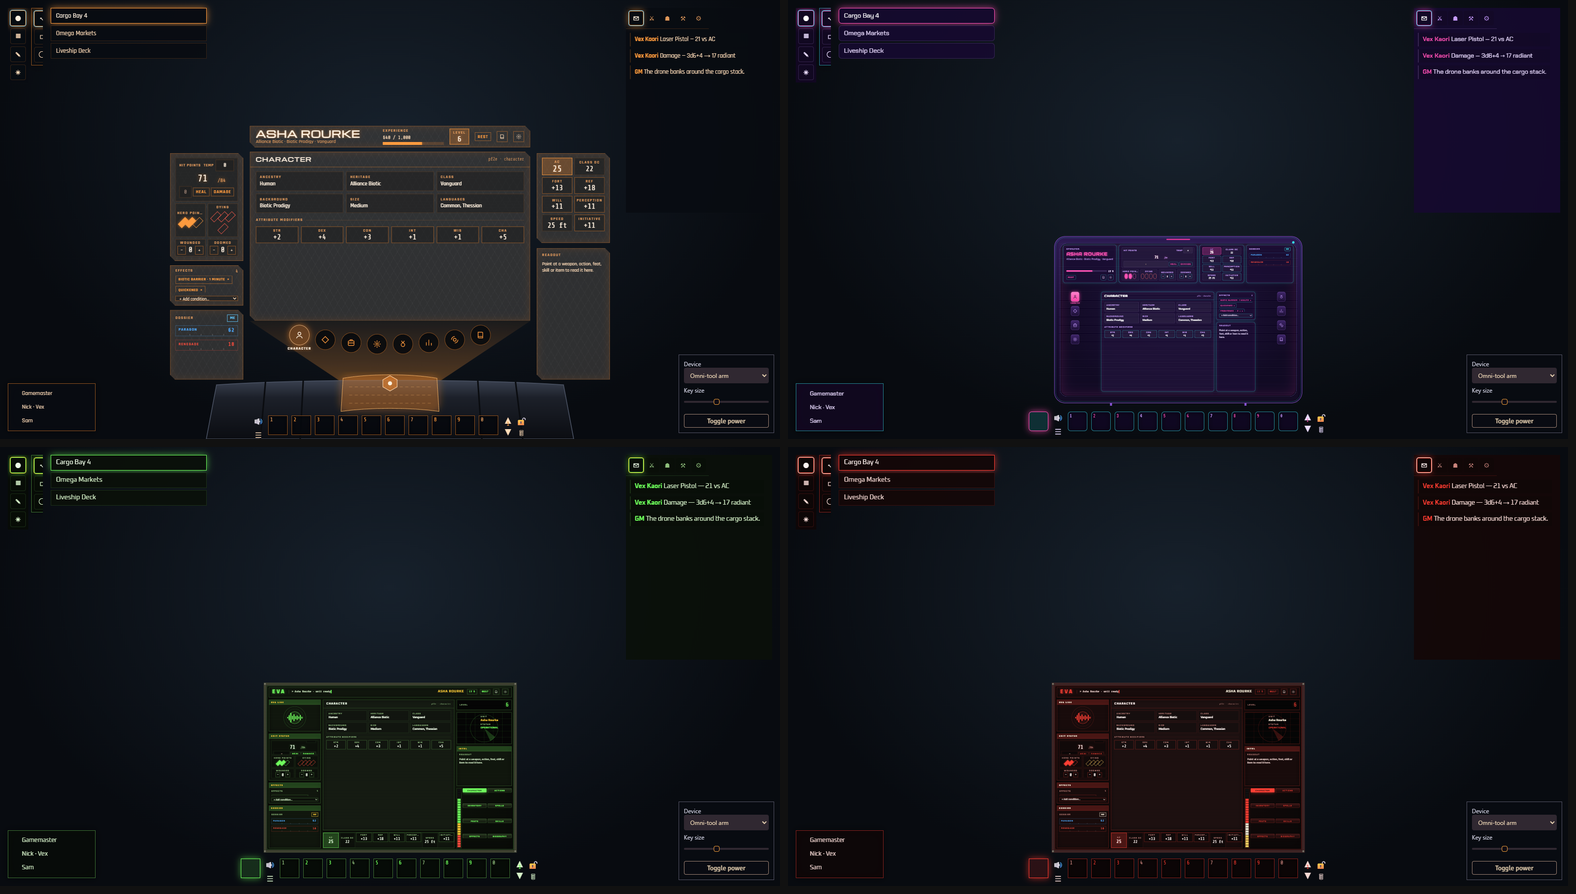
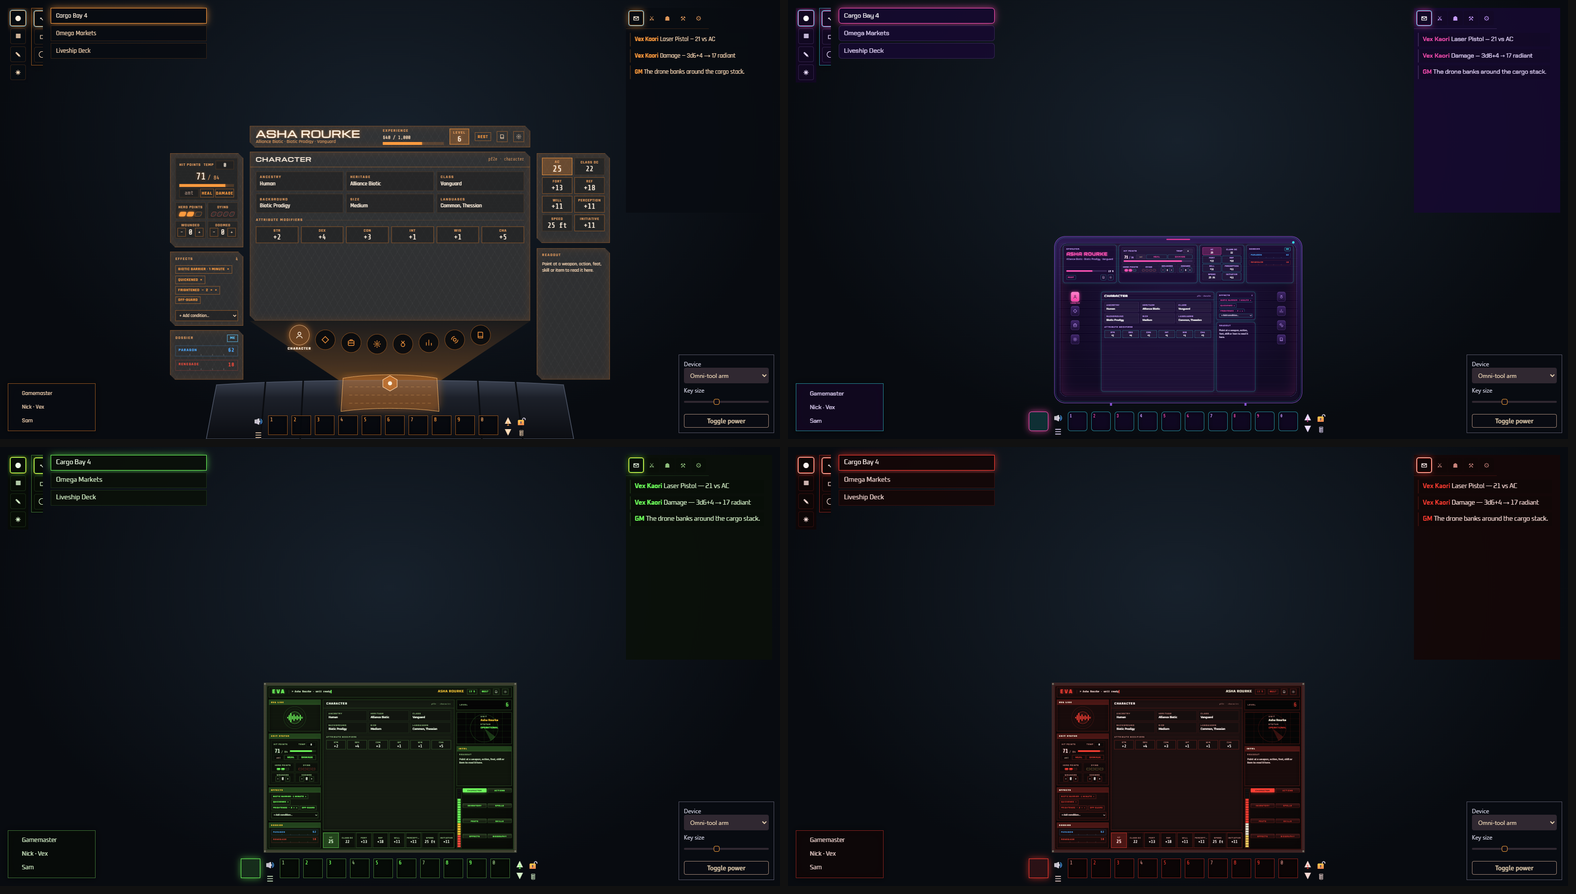
Hero points, dying and death saves as tracks, and Effects gets the dossier's spare room

diff --git a/styles/projection.css b/styles/projection.css
@@ -54,24 +54,48 @@
 #sfh-projection .barx{height:8px;background:var(--line2);border-radius:calc(var(--r)*.3);overflow:hidden}
 #sfh-projection .barx>i{display:block;height:100%;background:var(--hot);box-shadow:0 0 10px var(--glow)}
 #sfh-projection .barx.a>i{background:var(--acc);box-shadow:0 0 10px var(--acc)}
-#sfh-projection .cells{--cw:86px;min-height:0;display:grid;grid-template-columns:repeat(auto-fill,minmax(var(--cw),1fr));gap:6px}
+#sfh-projection .cells{--cw:86px;min-height:0;display:grid;grid-template-columns:repeat(auto-fill,minmax(var(--cw),1fr));grid-auto-rows:minmax(min-content,auto);gap:6px}
 #sfh-projection .sfh-stage[data-device="omni"] .cells{--cw:74px}
-#sfh-projection .sfh-stage[data-device="wrist"] .cell{min-height:40px}
+#sfh-projection .sfh-stage[data-device="wrist"] .cells{gap:4px}
+#sfh-projection .sfh-stage[data-device="wrist"] .cell{min-height:38px}
 #sfh-projection .sfh-stage[data-device="wrist"] .cell .v{font-size:17px}
 #sfh-projection .big{white-space:nowrap}
 #sfh-projection .cell{display:flex;flex-direction:column;align-items:center;justify-content:center;gap:2px;min-height:46px;padding:4px;border:1px solid var(--line2);background:var(--pnl2);border-radius:calc(var(--r)*.6);font:inherit;color:inherit}
-#sfh-projection button.cell{cursor:pointer;border-color:var(--line)}
+/* Foundry gives every button a fixed height; a cell is as tall as its row */
+#sfh-projection button.cell{cursor:pointer;border-color:var(--line);height:auto}
 #sfh-projection button.cell:hover{background:var(--hover)}
 #sfh-projection .cell{overflow:hidden}
-#sfh-projection .cell .lbl{max-width:100%;overflow:hidden;text-overflow:ellipsis;white-space:nowrap;text-align:center;line-height:1.1}
+#sfh-projection .cell .lbl{max-width:100%;overflow:hidden;text-overflow:ellipsis;white-space:nowrap;text-align:center;line-height:1.1;letter-spacing:.08em}
 #sfh-projection .cell .v{font-family:var(--mono);font-size:20px;color:var(--bright);line-height:1;max-width:100%;overflow:hidden;text-overflow:ellipsis;white-space:nowrap}
 #sfh-projection .cell.wide{grid-column:1/-1}
-#sfh-projection .pips{display:flex;flex-wrap:wrap;justify-content:center;gap:5px;max-width:100%}
-#sfh-projection .pip{width:15px;height:15px;border:1px solid var(--hot);background:transparent;cursor:pointer;padding:0;transform:rotate(45deg);border-radius:calc(var(--r)*.2)}
+#sfh-projection .pips{display:flex;flex-wrap:wrap;justify-content:center;gap:9px;max-width:100%;padding:3px}
+#sfh-projection .sfh-stage[data-device="wrist"] .pips{gap:5px}
+#sfh-projection .pip{flex:none;width:15px;height:15px;min-height:0;border:1px solid var(--hot);background:transparent;cursor:pointer;padding:0;transform:rotate(45deg);border-radius:calc(var(--r)*.2)}
 #sfh-projection .pip.on{background:var(--hot);box-shadow:0 0 8px var(--glow)}
 #sfh-projection .pip.bad{border-color:var(--bad)}
 #sfh-projection .pip.bad.on{background:var(--bad);box-shadow:0 0 8px var(--bad)}
 #sfh-projection .sfh-stage[data-device="wrist"] .pip, #sfh-projection .sfh-stage[data-device="wrist"] .dot{transform:none;border-radius:50%;width:17px;height:17px}
+/* segmented tracks — hero points, dying: one segment per point, slanted on the omni-tool, pills on the wrist, blocks on the EVA */
+#sfh-projection .trk{gap:6px}
+#sfh-projection .segs{display:flex;justify-content:center;gap:4px;width:100%;padding:0 5px;box-sizing:border-box}
+#sfh-projection .seg{flex:0 1 18px;min-width:8px;height:13px;min-height:0;padding:0;border:1px solid var(--line);background:rgba(255,255,255,.04);cursor:pointer;transform:skewX(-20deg)}
+#sfh-projection .seg:hover{background:var(--hover);border-color:var(--hot)}
+#sfh-projection .seg.on{background:var(--hot);border-color:var(--hot);box-shadow:0 0 8px var(--glow)}
+#sfh-projection .seg.bad{border-color:color-mix(in srgb,var(--bad) 55%,transparent)}
+#sfh-projection .seg.bad:hover{background:color-mix(in srgb,var(--bad) 18%,transparent)}
+#sfh-projection .seg.bad.on{background:var(--bad);border-color:var(--bad);box-shadow:0 0 8px var(--bad)}
+#sfh-projection .seg.lock{cursor:default;border-style:dashed;border-color:color-mix(in srgb,var(--bad) 50%,transparent);background:repeating-linear-gradient(90deg,color-mix(in srgb,var(--bad) 35%,transparent) 0 2px,transparent 2px 5px)}
+#sfh-projection .segsep{flex:none;width:1px;align-self:stretch;margin:0 3px;background:var(--line)}
+#sfh-projection .sfh-stage[data-device="wrist"] .seg{transform:none;border-radius:7px}
+#sfh-projection .sfh-stage[data-device="gdi"] .seg, #sfh-projection .sfh-stage[data-device="nod"] .seg{transform:none;height:11px;box-shadow:inset 0 0 0 1px #000}
+#sfh-projection .trk.alert{border-color:var(--bad);animation:sfh-alert 1.6s ease-in-out infinite}
+#sfh-projection .trk.alert .lbl{color:var(--bad)}
+@keyframes sfh-alert {50%{box-shadow:inset 0 0 16px color-mix(in srgb,var(--bad) 45%,transparent)}}
+@media (prefers-reduced-motion:reduce){
+#sfh-projection .trk.alert{animation:sfh-none;box-shadow:inset 0 0 12px color-mix(in srgb,var(--bad) 35%,transparent)}
+}
+#sfh-projection .cell .v.warn{color:var(--hot);text-shadow:0 0 8px var(--glow)}
+#sfh-projection .cell .v.bad{color:var(--bad);text-shadow:0 0 8px var(--bad)}
 /* ---------- projection ---------- */
 #sfh-projection .proj{padding:0}
 #sfh-projection .proj-h{display:flex;align-items:center;gap:6px;min-height:42px;padding:0 16px;border-bottom:1px solid var(--line);flex-wrap:wrap}
@@ -104,10 +128,21 @@
 #sfh-projection .sfh-in:focus{outline:1px solid var(--hot);border-color:var(--hot);background:rgba(0,0,0,.55)}
 #sfh-projection .sfh-in::-webkit-outer-spin-button, #sfh-projection .sfh-in::-webkit-inner-spin-button{-webkit-appearance:none;margin:0}
 #sfh-projection .sfh-in[type=number]{-moz-appearance:textfield}
-#sfh-projection .sfh-in-hp{width:3.2em;font-size:26px;line-height:1;padding:0 2px;background:transparent;border-color:transparent;color:var(--bright);text-shadow:0 0 10px var(--glow)}
+#sfh-projection .sfh-in-hp{width:3.2em;height:auto;min-height:0;font-size:26px;line-height:1;padding:0 2px;text-align:right;background:transparent;border-color:transparent;color:var(--bright);text-shadow:0 0 10px var(--glow)}
 #sfh-projection .sfh-in-hp:hover{border-color:var(--line2)}
 #sfh-projection .sfh-temp{display:flex;align-items:center;gap:5px;flex:none}
+#sfh-projection .sfh-hp{align-items:stretch;gap:5px;padding:7px 10px}
 #sfh-projection .sfh-hp .lbl{overflow:visible;text-overflow:clip;letter-spacing:.1em}
+#sfh-projection .sfh-hp .sfh-in:not(.sfh-in-hp){height:24px;min-height:0}
+#sfh-projection .sfh-hp .hp-a .b{height:24px;min-height:24px}
+#sfh-projection .sfh-hp .hp-b{align-self:center;width:100%}
+/* where the panel is wide or short, the number shares its row: with the buttons on the wrist, with the bar on the EVA */
+#sfh-projection .sfh-stage[data-device="wrist"] .sfh-hp{display:grid;grid-template-columns:auto 1fr;grid-template-areas:"h h" "v a" "b b";column-gap:14px}
+#sfh-projection .sfh-stage[data-device="gdi"] .sfh-hp, #sfh-projection .sfh-stage[data-device="nod"] .sfh-hp{display:grid;grid-template-columns:auto 1fr;grid-template-areas:"h h" "v b" "a a";column-gap:12px}
+#sfh-projection .sfh-hp .hp-h{grid-area:h}
+#sfh-projection .sfh-hp .hp-v{grid-area:v}
+#sfh-projection .sfh-hp .hp-b{grid-area:b}
+#sfh-projection .sfh-hp .hp-a{grid-area:a}
 #sfh-projection .sfh-temp .sfh-in{width:3.4em}
 #sfh-projection .sfh-menu{position:absolute;left:8px;right:8px;top:8px;z-index:12;display:flex;flex-direction:column;gap:6px;padding:10px;background:linear-gradient(var(--pnl),var(--pnl)),#0a0b0e;border:1px solid var(--hot);border-radius:calc(var(--r)*.6);box-shadow:0 0 22px var(--glow)}
 #sfh-projection .sfh-menu label{display:flex;align-items:center;justify-content:space-between;gap:8px;font-size:12px;color:var(--dim)}
@@ -159,6 +194,8 @@ body[data-sfh-grid="panels"] #sfh-projection .sfh-stage[data-device="omni"] :is(
 #sfh-projection .sfh-stage[data-device="wrist"] .tile{border-radius:12px}
 #sfh-projection .cap{display:flex;align-items:center;min-height:24px;padding:0 10px;background:var(--hotbg);border-bottom:1px solid var(--line);font-size:11px;font-weight:800;letter-spacing:.2em;text-transform:uppercase;color:var(--acc);flex:none}
 #sfh-projection .sfh-stage[data-device="gdi"] .slot.pnl, #sfh-projection .sfh-stage[data-device="nod"] .slot.pnl{padding-top:0}
+/* the EVA captions its bays, so a panel's own heading inside one would say it twice */
+#sfh-projection .sfh-stage[data-device="gdi"] .slot-in>.hd, #sfh-projection .sfh-stage[data-device="nod"] .slot-in>.hd{display:none}
 /* ---------- toasts & dialog ---------- */
 #sfh-projection #sfh-toasts{position:absolute;display:flex;flex-direction:column;gap:8px;pointer-events:none;z-index:30;width:250px}
 #sfh-projection .toast{pointer-events:auto;box-sizing:border-box;padding:10px 12px;background:var(--pnl);border:1px solid var(--hot);box-shadow:0 0 20px var(--glow);clip-path:var(--clip);border-radius:var(--r);font-family:var(--font);color:var(--text);animation:sfh-tin .25s ease-out}

diff --git a/design/1-head.html b/design/1-head.html
@@ -59,21 +59,42 @@ body{font-family:'IBM Plex Sans',system-ui,sans-serif;padding-inline:16px;paddin
 .barx{height:8px;background:var(--line2);border-radius:calc(var(--r)*.3);overflow:hidden}
 .barx>i{display:block;height:100%;background:var(--hot);box-shadow:0 0 10px var(--glow)}
 .barx.a>i{background:var(--acc);box-shadow:0 0 10px var(--acc)}
-.cells{--cw:86px;min-height:0;display:grid;grid-template-columns:repeat(auto-fill,minmax(var(--cw),1fr));gap:6px}
+.cells{--cw:86px;min-height:0;display:grid;grid-template-columns:repeat(auto-fill,minmax(var(--cw),1fr));grid-auto-rows:minmax(min-content,auto);gap:6px}
 .t-omni .cells{--cw:74px}
-.t-wrist .cell{min-height:40px}.t-wrist .cell .v{font-size:17px}
+.t-wrist .cells{gap:4px}.t-wrist .cell{min-height:38px}.t-wrist .cell .v{font-size:17px}
 .big{white-space:nowrap}
 .cell{display:flex;flex-direction:column;align-items:center;justify-content:center;gap:2px;min-height:46px;padding:4px;border:1px solid var(--line2);background:var(--pnl2);border-radius:calc(var(--r)*.6);font:inherit;color:inherit}
-button.cell{cursor:pointer;border-color:var(--line)}button.cell:hover{background:var(--hover)}
+/* Foundry gives every button a fixed height; a cell is as tall as its row */
+button.cell{cursor:pointer;border-color:var(--line);height:auto}button.cell:hover{background:var(--hover)}
 .cell{overflow:hidden}
-.cell .lbl{max-width:100%;overflow:hidden;text-overflow:ellipsis;white-space:nowrap;text-align:center;line-height:1.1}
+.cell .lbl{max-width:100%;overflow:hidden;text-overflow:ellipsis;white-space:nowrap;text-align:center;line-height:1.1;letter-spacing:.08em}
 .cell .v{font-family:var(--mono);font-size:20px;color:var(--bright);line-height:1;max-width:100%;overflow:hidden;text-overflow:ellipsis;white-space:nowrap}
 .cell.wide{grid-column:1/-1}
-.pips{display:flex;flex-wrap:wrap;justify-content:center;gap:5px;max-width:100%}
-.pip{width:15px;height:15px;border:1px solid var(--hot);background:transparent;cursor:pointer;padding:0;transform:rotate(45deg);border-radius:calc(var(--r)*.2)}
+.pips{display:flex;flex-wrap:wrap;justify-content:center;gap:9px;max-width:100%;padding:3px}
+.t-wrist .pips{gap:5px}
+.pip{flex:none;width:15px;height:15px;min-height:0;border:1px solid var(--hot);background:transparent;cursor:pointer;padding:0;transform:rotate(45deg);border-radius:calc(var(--r)*.2)}
 .pip.on{background:var(--hot);box-shadow:0 0 8px var(--glow)}
 .pip.bad{border-color:var(--bad)}.pip.bad.on{background:var(--bad);box-shadow:0 0 8px var(--bad)}
 .t-wrist .pip,.t-wrist .dot{transform:none;border-radius:50%;width:17px;height:17px}
+/* segmented tracks — hero points, dying: one segment per point, slanted on the omni-tool, pills on the wrist, blocks on the EVA */
+.trk{gap:6px}
+.segs{display:flex;justify-content:center;gap:4px;width:100%;padding:0 5px;box-sizing:border-box}
+.seg{flex:0 1 18px;min-width:8px;height:13px;min-height:0;padding:0;border:1px solid var(--line);background:rgba(255,255,255,.04);cursor:pointer;transform:skewX(-20deg)}
+.seg:hover{background:var(--hover);border-color:var(--hot)}
+.seg.on{background:var(--hot);border-color:var(--hot);box-shadow:0 0 8px var(--glow)}
+.seg.bad{border-color:color-mix(in srgb,var(--bad) 55%,transparent)}
+.seg.bad:hover{background:color-mix(in srgb,var(--bad) 18%,transparent)}
+.seg.bad.on{background:var(--bad);border-color:var(--bad);box-shadow:0 0 8px var(--bad)}
+.seg.lock{cursor:default;border-style:dashed;border-color:color-mix(in srgb,var(--bad) 50%,transparent);background:repeating-linear-gradient(90deg,color-mix(in srgb,var(--bad) 35%,transparent) 0 2px,transparent 2px 5px)}
+.segsep{flex:none;width:1px;align-self:stretch;margin:0 3px;background:var(--line)}
+.t-wrist .seg{transform:none;border-radius:7px}
+.t-gdi .seg,.t-nod .seg{transform:none;height:11px;box-shadow:inset 0 0 0 1px #000}
+.trk.alert{border-color:var(--bad);animation:alert 1.6s ease-in-out infinite}
+.trk.alert .lbl{color:var(--bad)}
+@keyframes alert{50%{box-shadow:inset 0 0 16px color-mix(in srgb,var(--bad) 45%,transparent)}}
+@media (prefers-reduced-motion:reduce){.trk.alert{animation:none;box-shadow:inset 0 0 12px color-mix(in srgb,var(--bad) 35%,transparent)}}
+.cell .v.warn{color:var(--hot);text-shadow:0 0 8px var(--glow)}
+.cell .v.bad{color:var(--bad);text-shadow:0 0 8px var(--bad)}
 
 /* ---------- projection ---------- */
 .proj{padding:0}
@@ -107,10 +128,18 @@ button.cell{cursor:pointer;border-color:var(--line)}button.cell:hover{background
 .sfh-in:focus{outline:1px solid var(--hot);border-color:var(--hot);background:rgba(0,0,0,.55)}
 .sfh-in::-webkit-outer-spin-button,.sfh-in::-webkit-inner-spin-button{-webkit-appearance:none;margin:0}
 .sfh-in[type=number]{-moz-appearance:textfield}
-.sfh-in-hp{width:3.2em;font-size:26px;line-height:1;padding:0 2px;background:transparent;border-color:transparent;color:var(--bright);text-shadow:0 0 10px var(--glow)}
+.sfh-in-hp{width:3.2em;height:auto;min-height:0;font-size:26px;line-height:1;padding:0 2px;text-align:right;background:transparent;border-color:transparent;color:var(--bright);text-shadow:0 0 10px var(--glow)}
 .sfh-in-hp:hover{border-color:var(--line2)}
 .sfh-temp{display:flex;align-items:center;gap:5px;flex:none}
+.sfh-hp{align-items:stretch;gap:5px;padding:7px 10px}
 .sfh-hp .lbl{overflow:visible;text-overflow:clip;letter-spacing:.1em}
+.sfh-hp .sfh-in:not(.sfh-in-hp){height:24px;min-height:0}
+.sfh-hp .hp-a .b{height:24px;min-height:24px}
+.sfh-hp .hp-b{align-self:center;width:100%}
+/* where the panel is wide or short, the number shares its row: with the buttons on the wrist, with the bar on the EVA */
+.t-wrist .sfh-hp{display:grid;grid-template-columns:auto 1fr;grid-template-areas:"h h" "v a" "b b";column-gap:14px}
+.t-gdi .sfh-hp,.t-nod .sfh-hp{display:grid;grid-template-columns:auto 1fr;grid-template-areas:"h h" "v b" "a a";column-gap:12px}
+.sfh-hp .hp-h{grid-area:h}.sfh-hp .hp-v{grid-area:v}.sfh-hp .hp-b{grid-area:b}.sfh-hp .hp-a{grid-area:a}
 .sfh-temp .sfh-in{width:3.4em}
 .sfh-menu{position:absolute;left:8px;right:8px;top:8px;z-index:12;display:flex;flex-direction:column;gap:6px;padding:10px;background:linear-gradient(var(--pnl),var(--pnl)),#0a0b0e;border:1px solid var(--hot);border-radius:calc(var(--r)*.6);box-shadow:0 0 22px var(--glow)}
 .sfh-menu label{display:flex;align-items:center;justify-content:space-between;gap:8px;font-size:12px;color:var(--dim)}
@@ -165,6 +194,8 @@ button.cell{cursor:pointer;border-color:var(--line)}button.cell:hover{background
 .t-wrist .tile{border-radius:12px}
 .cap{display:flex;align-items:center;min-height:24px;padding:0 10px;background:var(--hotbg);border-bottom:1px solid var(--line);font-size:11px;font-weight:800;letter-spacing:.2em;text-transform:uppercase;color:var(--acc);flex:none}
 .t-gdi .slot.pnl,.t-nod .slot.pnl{padding-top:0}
+/* the EVA captions its bays, so a panel's own heading inside one would say it twice */
+.t-gdi .slot-in>.hd,.t-nod .slot-in>.hd{display:none}
 
 /* ---------- toasts & dialog ---------- */
 #toasts{position:absolute;display:flex;flex-direction:column;gap:8px;pointer-events:none;z-index:30;width:250px}

diff --git a/CHANGELOG.md b/CHANGELOG.md
@@ -23,6 +23,11 @@ device, and the character sheet is a projection it raises over the canvas.
   setting to keep Foundry's own.
 - The Mass Effect dossier: shields and Paragon/Renegade, read from the conversion and shield
   modules.
+- Hero points, dying and 5e death saves as segmented tracks. Dying above zero puts its box
+  on alert, and doomed shows as locked segments where dying's maximum has been lowered.
+- The Mass Effect dossier is only as tall as what it shows; the effects panel gets the rest.
+- Boxes in the panels keep their full height instead of being cut off (the hit points box
+  lost its bar, and on the EVA its buttons), and labels like Perception fit.
 - The devices' fonts ship with the module, so an offline table looks the same. The
   omni-tool's headings are Michroma.
 - Your own heading, text and number fonts: installed on your computer, added in Foundry's
